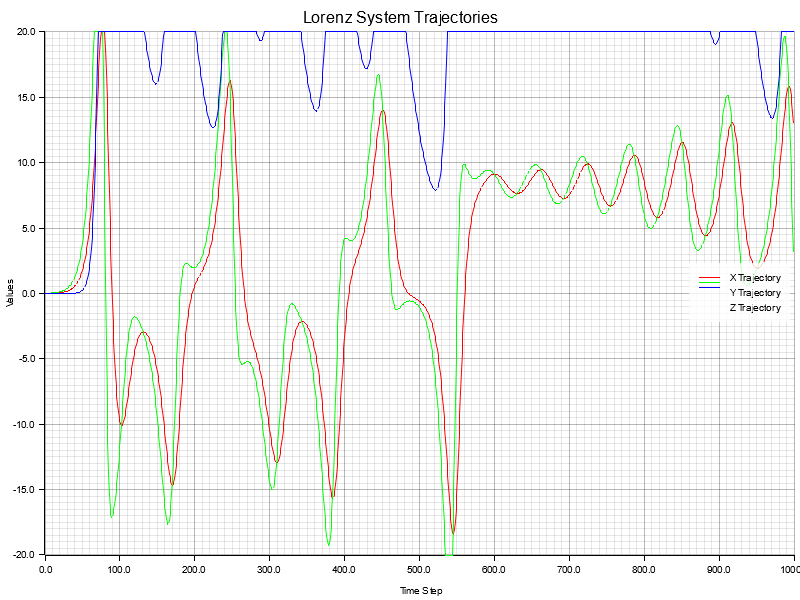
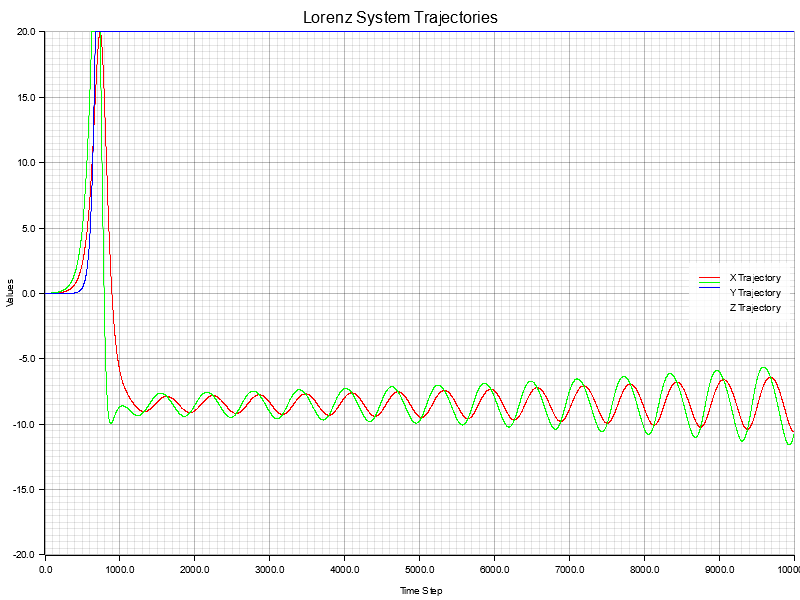
trying different values

diff --git a/src/main.rs b/src/main.rs
@@ -10,13 +10,9 @@ fn main() {
         10.0,
         28.0,
         beta,
-        0.01,
-        1000
+        0.001,
+        10000
     );
     let trajectories: (Vec<f64>, Vec<f64>, Vec<f64>) = ls.simulate();
-    println!("\n\n");
-    println!("X traj: {:?}\n", trajectories.0);
-    println!("Y traj: {:?}\n", trajectories.1);
-    println!("Z traj: {:?}\n", trajectories.2);
     ls.display(trajectories);
 }
